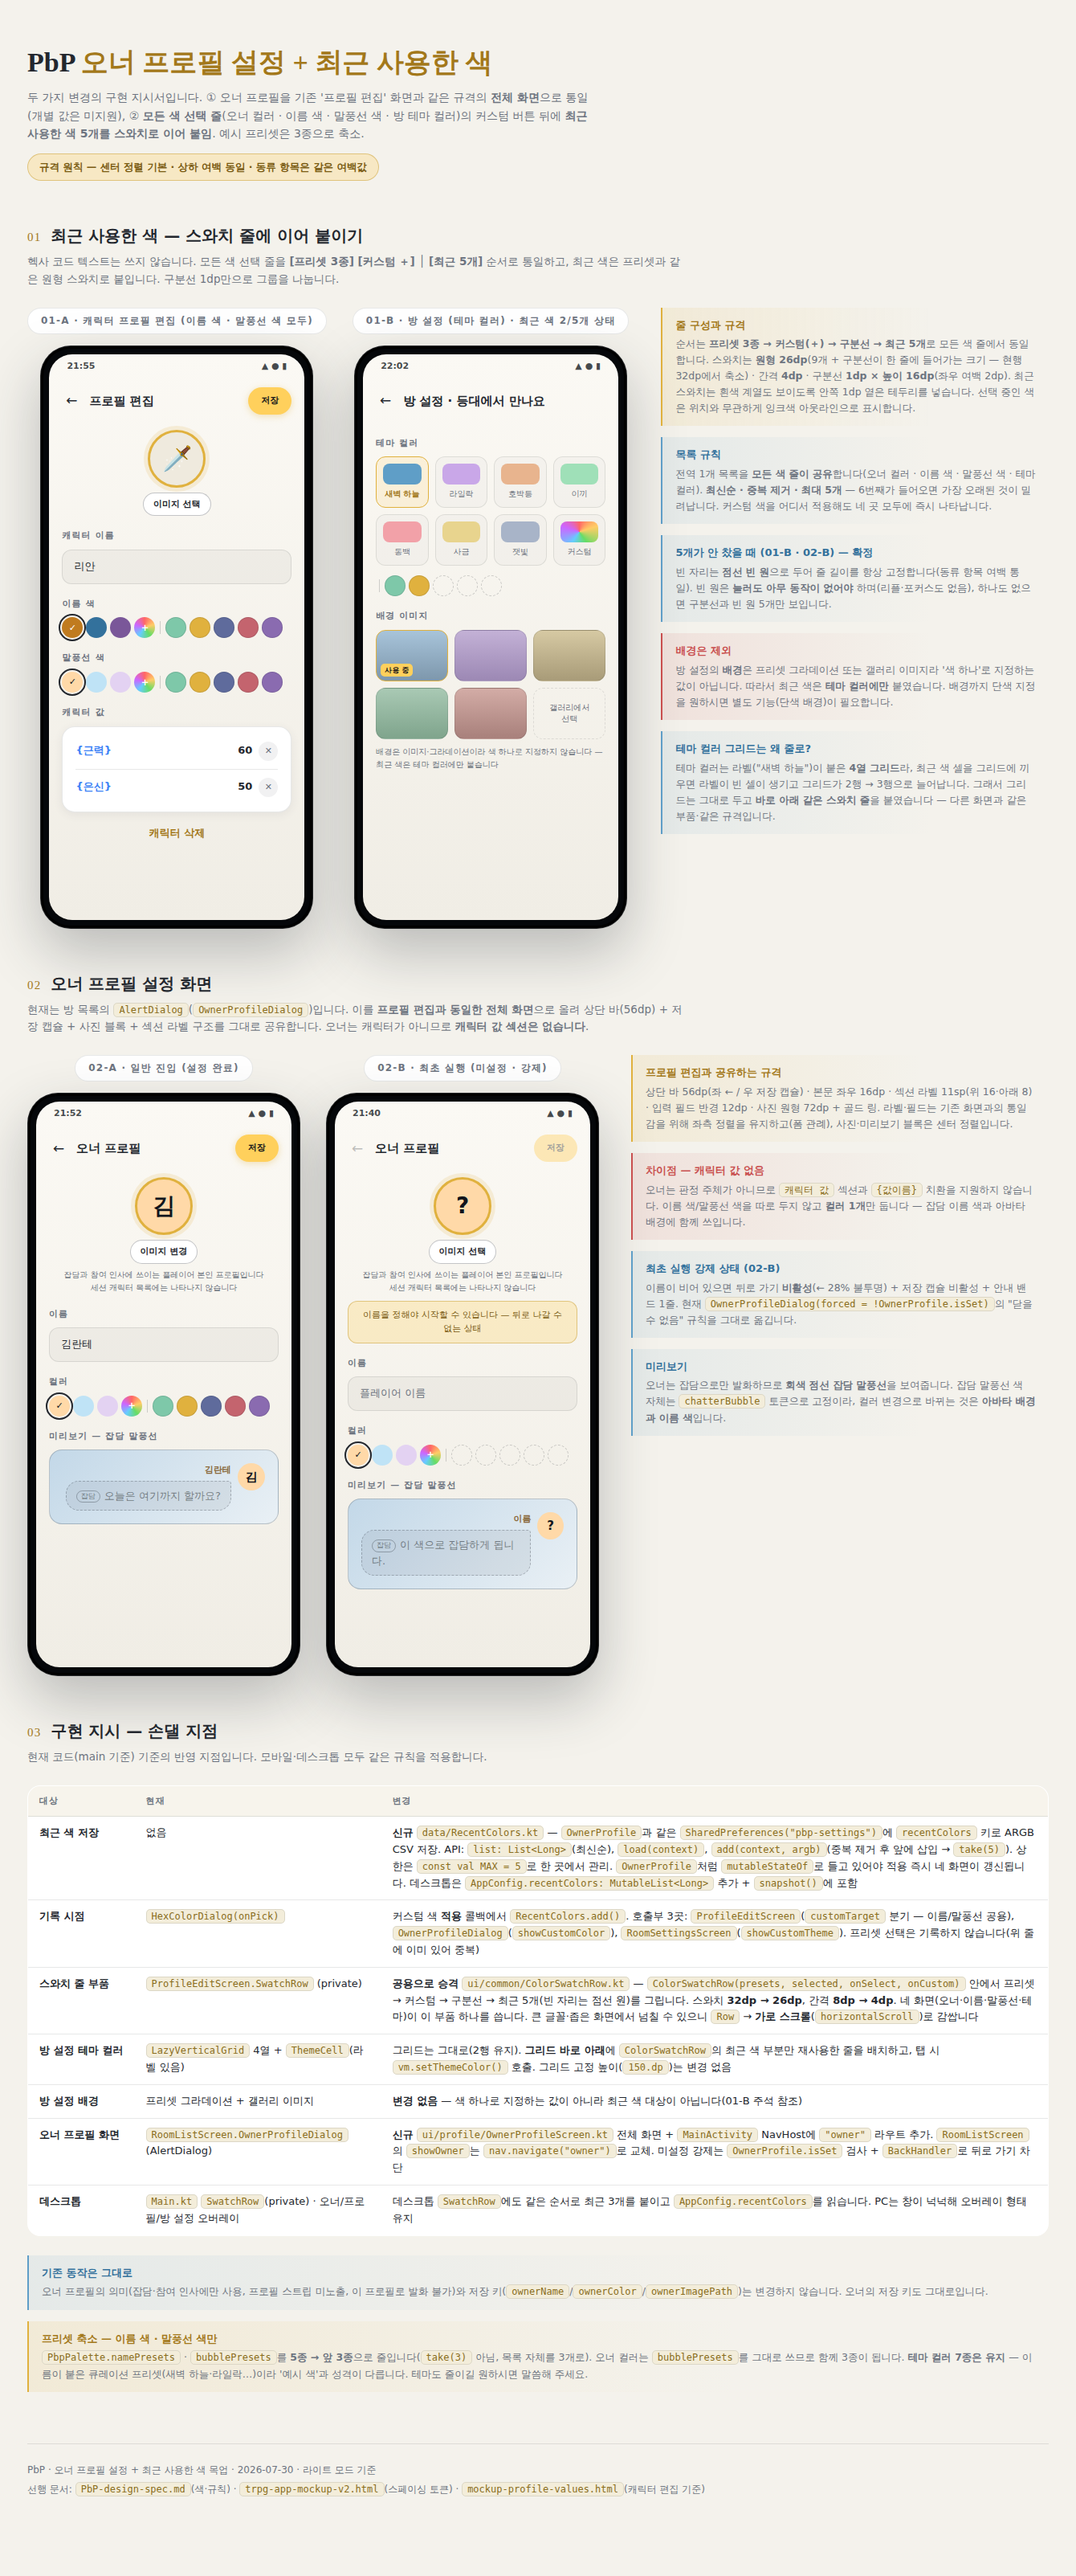
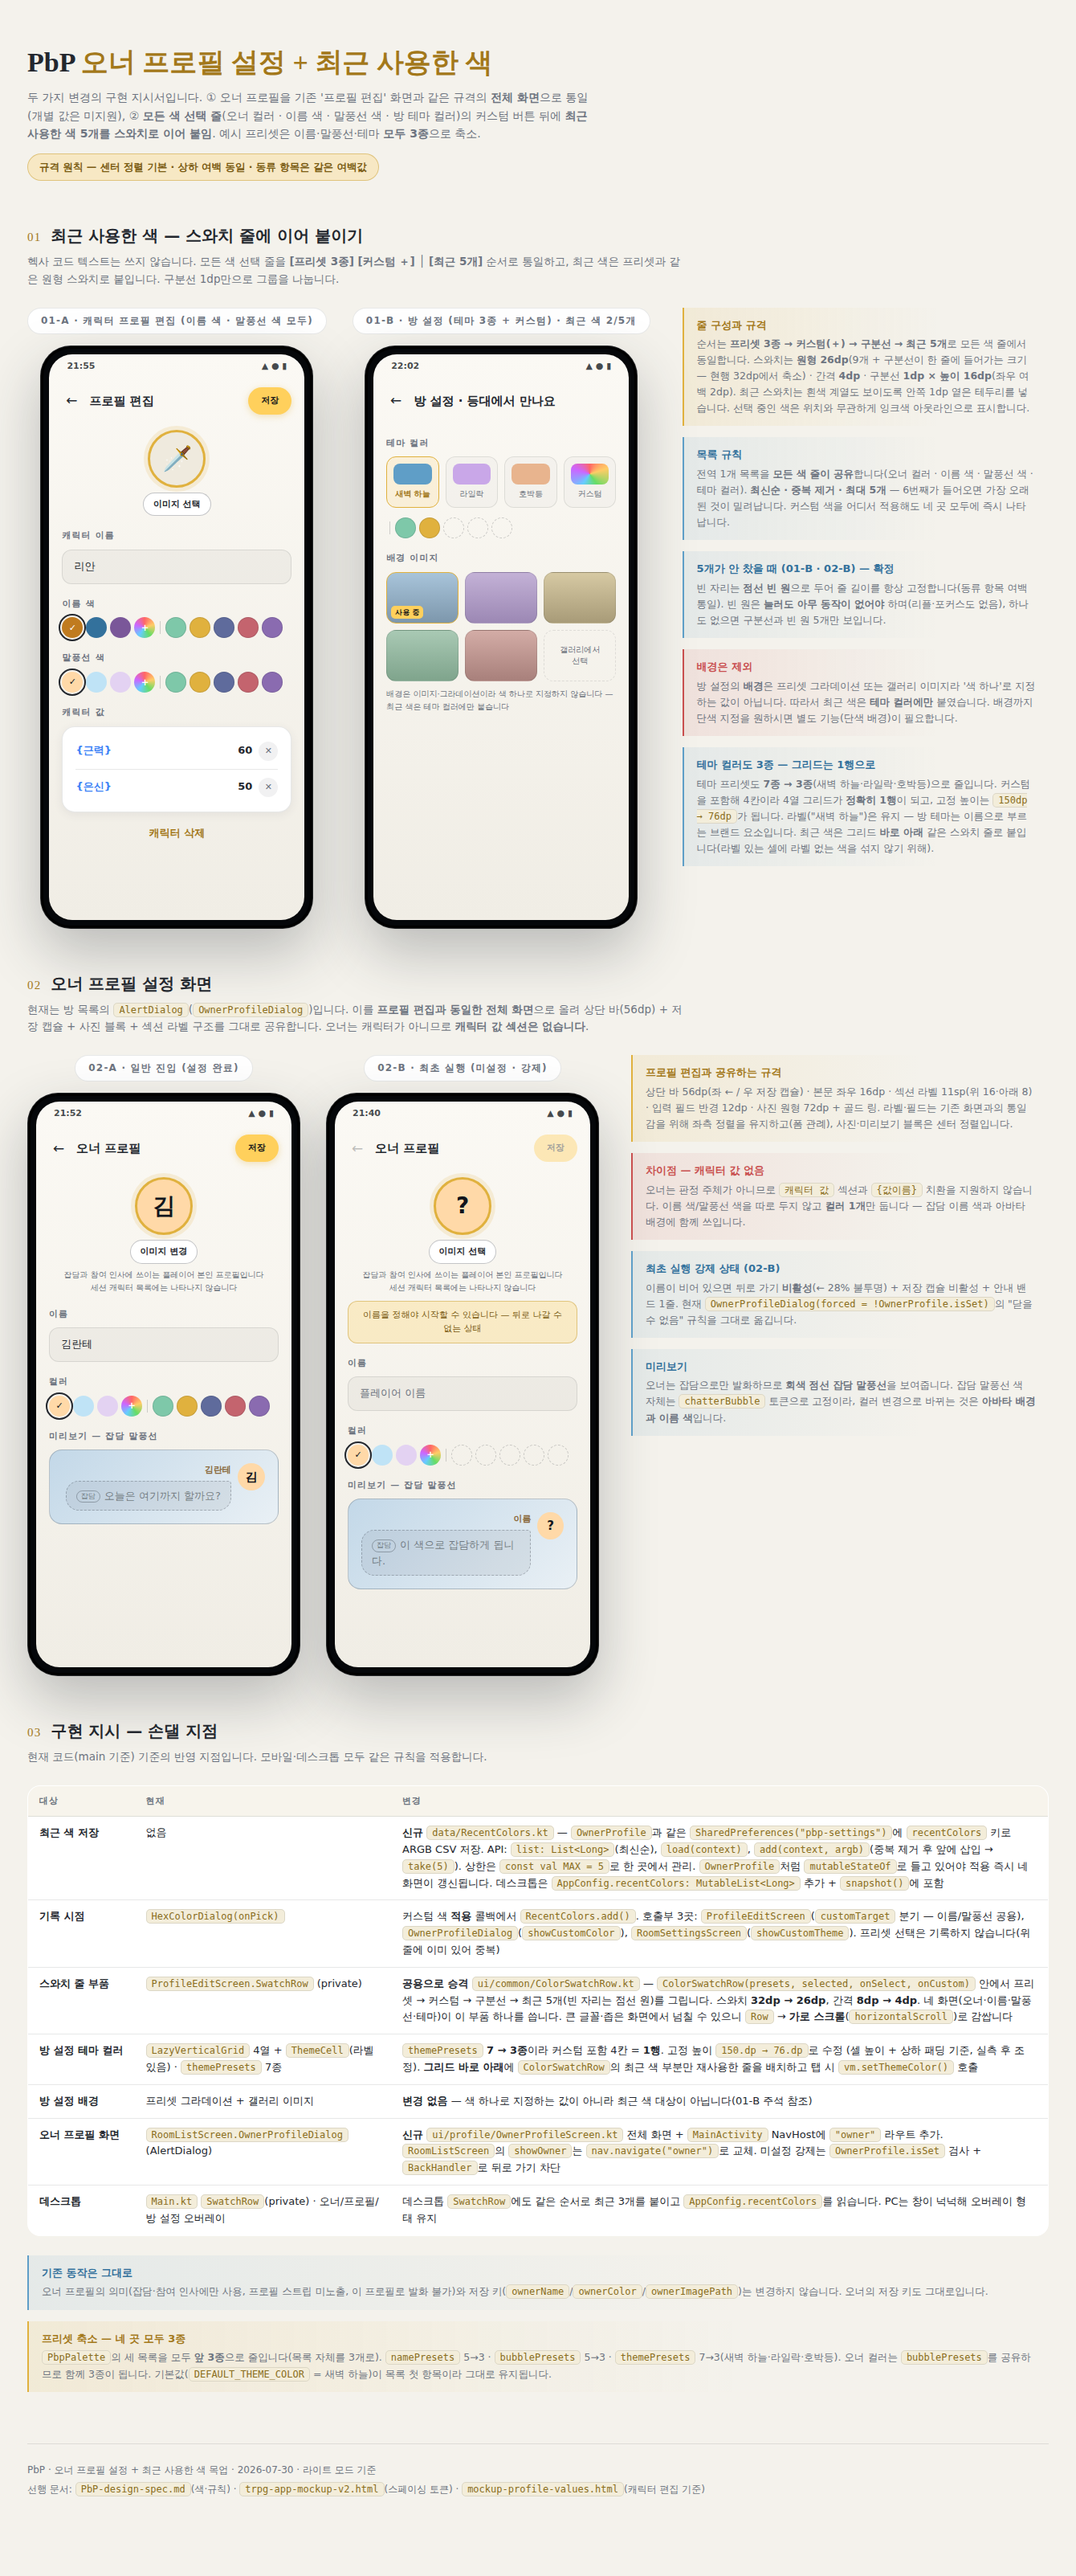
목업 — 테마 컬러도 3종으로 축소 (그리드 1행)
- themePresets 7→3(새벽 하늘·라일락·호박등) + 커스텀 = 4셀
- 라벨 그리드가 정확히 1행 → 고정 높이 150dp → 76dp
- 최근 색 줄은 그리드 바로 아래 유지, 스와치 오버플로 0px 재확인

Claude-Session: https://claude.ai/code/session_01GhuwLQyUHeJ9P3k24NQsCQ

diff --git a/docs/mockup-owner-profile.html b/docs/mockup-owner-profile.html
@@ -127,7 +127,7 @@ footer{color:var(--ink-dim);font-size:12px;border-top:1px solid var(--line);marg
 <header class="page">
   <h1>PbP <em>오너 프로필 설정 + 최근 사용한 색</em></h1>
   <p>두 가지 변경의 구현 지시서입니다. ① 오너 프로필을 기존 '프로필 편집' 화면과 같은 규격의 <b>전체 화면</b>으로 통일(개별 값은 미지원),
-  ② <b>모든 색 선택 줄</b>(오너 컬러 · 이름 색 · 말풍선 색 · 방 테마 컬러)의 커스텀 버튼 뒤에 <b>최근 사용한 색 5개를 스와치로 이어 붙임</b>. 예시 프리셋은 3종으로 축소.</p>
+  ② <b>모든 색 선택 줄</b>(오너 컬러 · 이름 색 · 말풍선 색 · 방 테마 컬러)의 커스텀 버튼 뒤에 <b>최근 사용한 색 5개를 스와치로 이어 붙임</b>. 예시 프리셋은 이름·말풍선·테마 <b>모두 3종</b>으로 축소.</p>
   <span class="principle">규격 원칙 — 센터 정렬 기본 · 상하 여백 동일 · 동류 항목은 같은 여백값</span>
 </header>
 
@@ -197,7 +197,7 @@ footer{color:var(--ink-dim);font-size:12px;border-top:1px solid var(--line);marg
       </div>
 
       <div class="pcol">
-        <div class="tag">01-B · 방 설정 (테마 컬러) · 최근 색 2/5개 상태</div>
+        <div class="tag">01-B · 방 설정 (테마 3종 + 커스텀) · 최근 색 2/5개</div>
         <div class="phone"><div class="screen">
           <div class="statusbar"><span>22:02</span><span>▲ ● ▮</span></div>
           <div class="appbar">
@@ -210,10 +210,6 @@ footer{color:var(--ink-dim);font-size:12px;border-top:1px solid var(--line);marg
               <div class="tcell sel"><div class="tsw" style="background:#5f9ec7"></div><span>새벽 하늘</span></div>
               <div class="tcell"><div class="tsw" style="background:#c9a7e8"></div><span>라일락</span></div>
               <div class="tcell"><div class="tsw" style="background:#e8b48e"></div><span>호박등</span></div>
-              <div class="tcell"><div class="tsw" style="background:#9fe0b8"></div><span>이끼</span></div>
-              <div class="tcell"><div class="tsw" style="background:#f2a1a8"></div><span>동백</span></div>
-              <div class="tcell"><div class="tsw" style="background:#e8d48e"></div><span>사금</span></div>
-              <div class="tcell"><div class="tsw" style="background:#a8b4c8"></div><span>잿빛</span></div>
               <div class="tcell"><div class="tsw" style="background:conic-gradient(#ff6666,#ffcc66,#66dd66,#66ccff,#cc66ff,#ff6666)"></div><span>커스텀</span></div>
             </div>
             <!-- 그리드는 라벨 있는 셀 체계라, 최근 색은 그리드 아래 같은 스와치 줄로 -->
@@ -259,10 +255,11 @@ footer{color:var(--ink-dim);font-size:12px;border-top:1px solid var(--line);marg
       <div class="note r"><h4>배경은 제외</h4>
         <p>방 설정의 <b>배경</b>은 프리셋 그라데이션 또는 갤러리 이미지라 '색 하나'로 지정하는 값이 아닙니다.
         따라서 최근 색은 <b>테마 컬러에만</b> 붙였습니다. 배경까지 단색 지정을 원하시면 별도 기능(단색 배경)이 필요합니다.</p></div>
-      <div class="note"><h4>테마 컬러 그리드는 왜 줄로?</h4>
-        <p>테마 컬러는 라벨("새벽 하늘")이 붙은 <b>4열 그리드</b>라, 최근 색 셀을 그리드에 끼우면 라벨이 빈 셀이 생기고
-        그리드가 2행 → 3행으로 늘어납니다. 그래서 그리드는 그대로 두고 <b>바로 아래 같은 스와치 줄</b>을 붙였습니다
-        — 다른 화면과 같은 부품·같은 규격입니다.</p></div>
+      <div class="note"><h4>테마 컬러도 3종 — 그리드는 1행으로</h4>
+        <p>테마 프리셋도 <b>7종 → 3종</b>(새벽 하늘·라일락·호박등)으로 줄입니다. 커스텀을 포함해 4칸이라
+        4열 그리드가 <b>정확히 1행</b>이 되고, 고정 높이는 <code>150dp → 76dp</code>가 됩니다.
+        라벨("새벽 하늘")은 유지 — 방 테마는 이름으로 부르는 브랜드 요소입니다.
+        최근 색은 그리드 <b>바로 아래</b> 같은 스와치 줄로 붙입니다(라벨 있는 셀에 라벨 없는 색을 섞지 않기 위해).</p></div>
     </div>
   </div>
 </section>
@@ -423,9 +420,10 @@ footer{color:var(--ink-dim);font-size:12px;border-top:1px solid var(--line);marg
     </tr>
     <tr>
       <td>방 설정 테마 컬러</td>
-      <td><code>LazyVerticalGrid</code> 4열 + <code>ThemeCell</code>(라벨 있음)</td>
-      <td>그리드는 그대로(2행 유지). <b>그리드 바로 아래</b>에 <code>ColorSwatchRow</code>의 최근 색 부분만 재사용한
-        줄을 배치하고, 탭 시 <code>vm.setThemeColor()</code> 호출. 그리드 고정 높이(<code>150.dp</code>)는 변경 없음</td>
+      <td><code>LazyVerticalGrid</code> 4열 + <code>ThemeCell</code>(라벨 있음) · <code>themePresets</code> 7종</td>
+      <td><code>themePresets</code> <b>7 → 3종</b>이라 커스텀 포함 4칸 = <b>1행</b>. 고정 높이 <code>150.dp → 76.dp</code>로 수정
+        (셀 높이 + 상하 패딩 기준, 실측 후 조정). <b>그리드 바로 아래</b>에 <code>ColorSwatchRow</code>의 최근 색 부분만 재사용한
+        줄을 배치하고 탭 시 <code>vm.setThemeColor()</code> 호출</td>
     </tr>
     <tr>
       <td>방 설정 배경</td>
@@ -452,11 +450,11 @@ footer{color:var(--ink-dim);font-size:12px;border-top:1px solid var(--line);marg
       <p>오너 프로필의 의미(잡담·참여 인사에만 사용, 프로필 스트립 미노출, 이 프로필로 발화 불가)와
       저장 키(<code>ownerName</code>/<code>ownerColor</code>/<code>ownerImagePath</code>)는 변경하지 않습니다.
       오너의 저장 키도 그대로입니다.</p></div>
-    <div class="note y"><h4>프리셋 축소 — 이름 색 · 말풍선 색만</h4>
-      <p><code>PbpPalette.namePresets</code> · <code>bubblePresets</code>를 <b>5종 → 앞 3종</b>으로 줄입니다(<code>take(3)</code> 아님, 목록 자체를 3개로).
-      오너 컬러는 <code>bubblePresets</code>를 그대로 쓰므로 함께 3종이 됩니다.
-      <b>테마 컬러 7종은 유지</b> — 이름이 붙은 큐레이션 프리셋(새벽 하늘·라일락…)이라 '예시 색'과 성격이 다릅니다.
-      테마도 줄이길 원하시면 말씀해 주세요.</p></div>
+    <div class="note y"><h4>프리셋 축소 — 네 곳 모두 3종</h4>
+      <p><code>PbpPalette</code>의 세 목록을 모두 <b>앞 3종</b>으로 줄입니다(목록 자체를 3개로).
+      <code>namePresets</code> 5→3 · <code>bubblePresets</code> 5→3 · <code>themePresets</code> 7→3(새벽 하늘·라일락·호박등).
+      오너 컬러는 <code>bubblePresets</code>를 공유하므로 함께 3종이 됩니다.
+      기본값(<code>DEFAULT_THEME_COLOR</code> = 새벽 하늘)이 목록 첫 항목이라 그대로 유지됩니다.</p></div>
   </div>
 </section>
 
